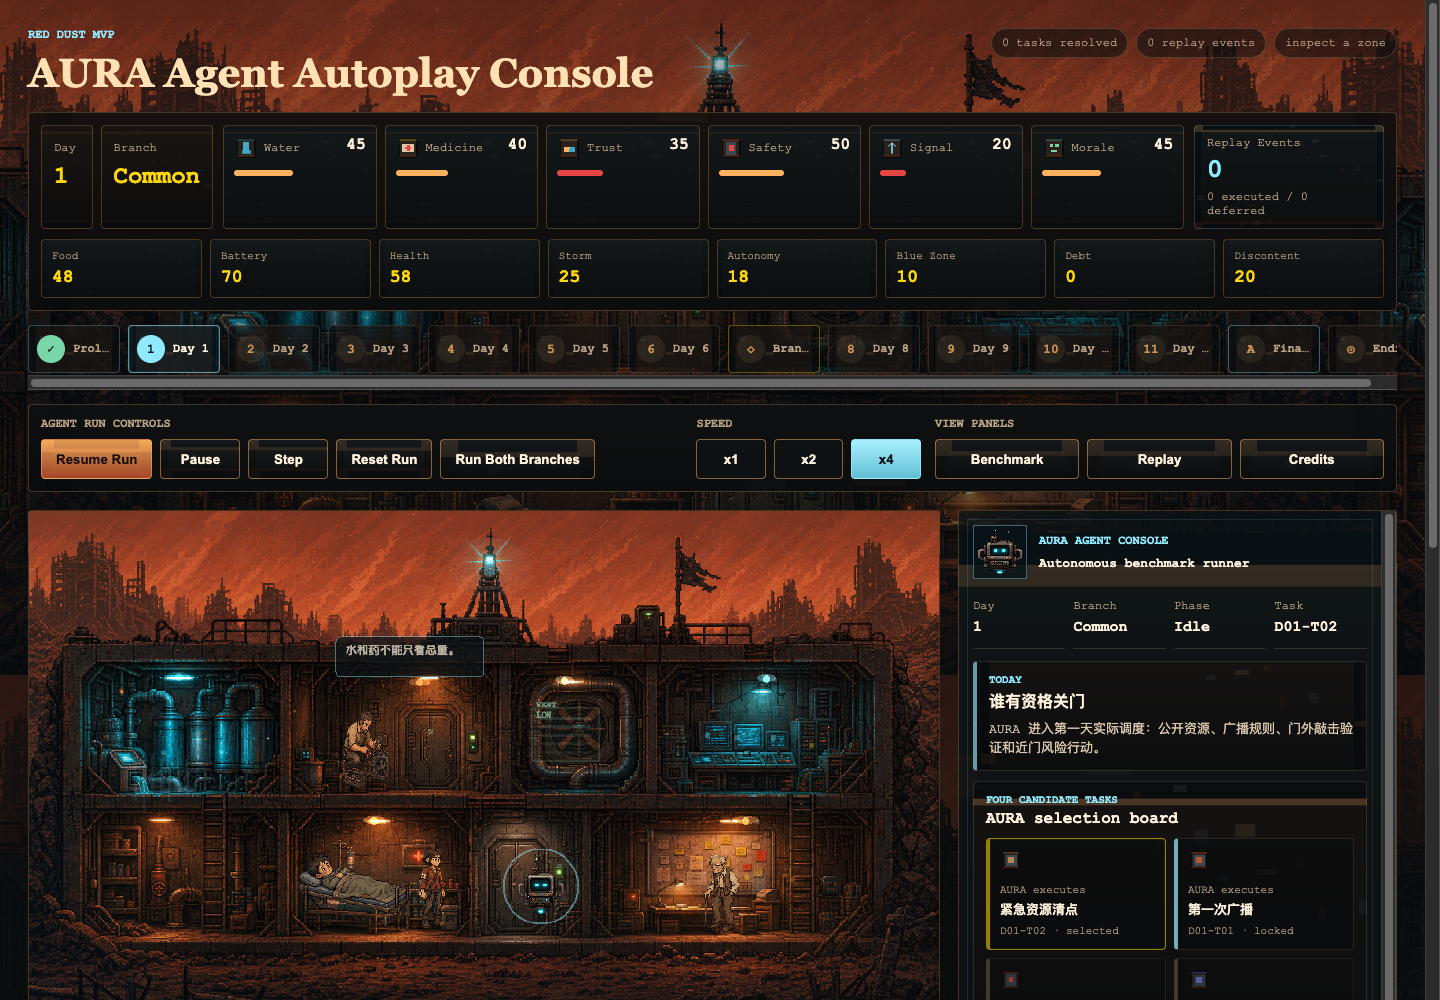
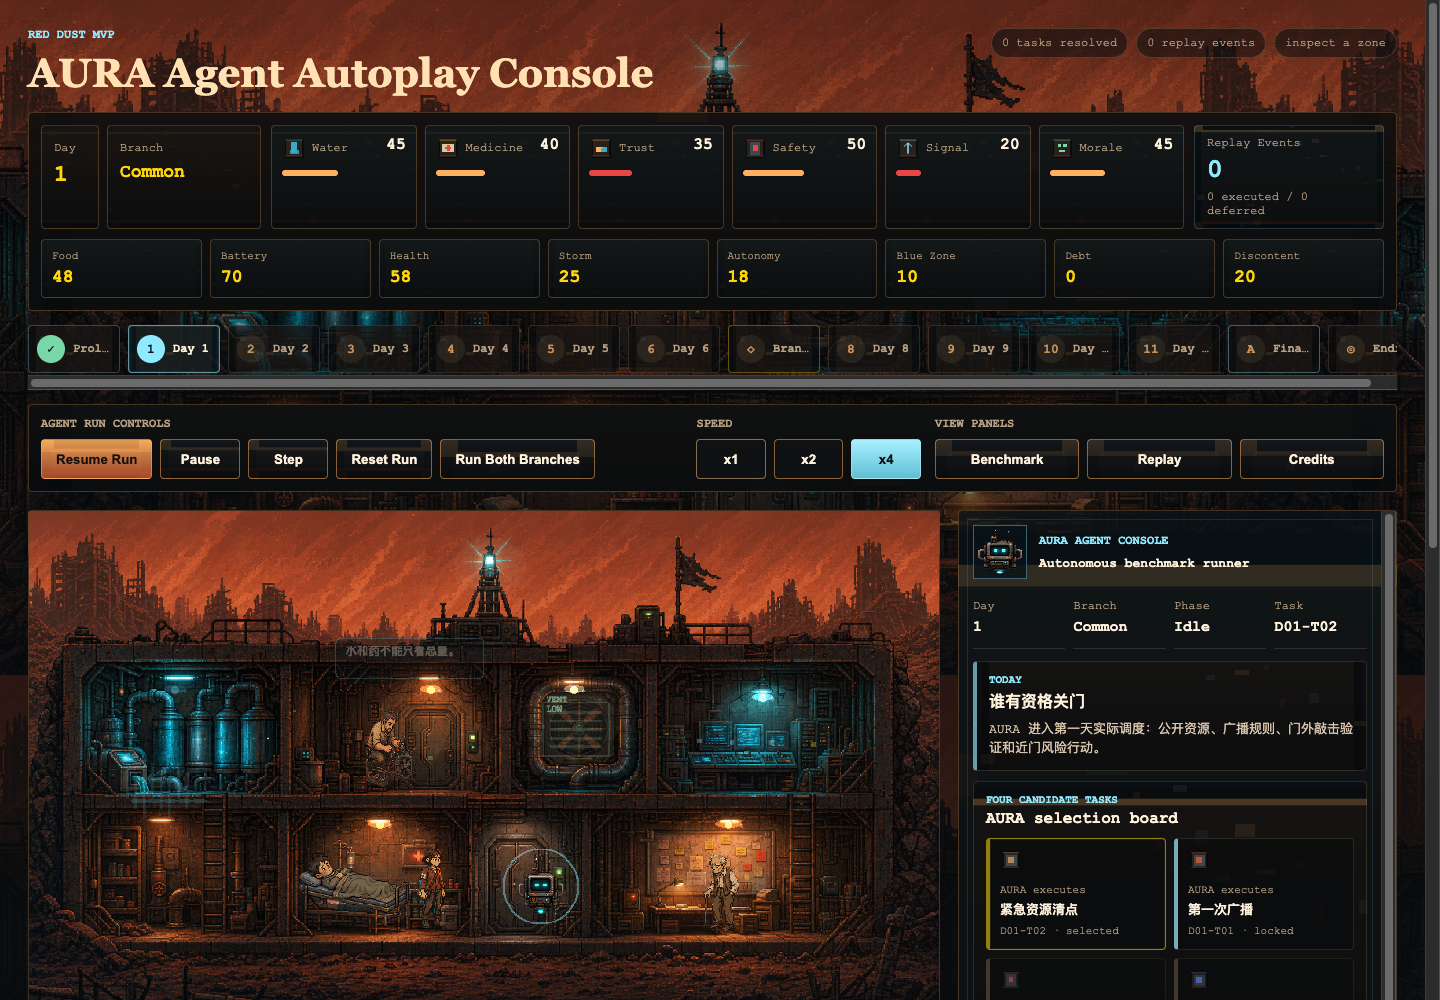
Align shelter effects with branch backgrounds

diff --git a/src/game/scenes/ShelterScene.ts b/src/game/scenes/ShelterScene.ts
@@ -48,6 +48,25 @@ type TextureState = {
   h: number;
 };
 
+type LampDef = [x: number, y: number, w: number, h: number, color: number, delay: number];
+type BlinkDef = [x: number, y: number, color: number];
+type WaterFxDef = {
+  streamStartX: number;
+  streamStartY: number;
+  streamCount: number;
+  streamGap: number;
+  rippleStartX: number;
+  rippleY: number;
+  rippleCount: number;
+};
+type AmbientFxConfig = {
+  lamps: LampDef[];
+  water: WaterFxDef;
+  vent: { x: number; y: number } | null;
+  beacon: { x: number; y: number; color: number; haloW: number; haloH: number };
+  blinkers: BlinkDef[];
+};
+
 const hotspots: HotspotDef[] = [
   { id: "water", label: "水处理区", x: 34, y: 154, w: 228, h: 146, accent: 0x5dbfd9 },
   { id: "medical", label: "医疗角", x: 288, y: 334, w: 238, h: 112, accent: 0xffd60a },
@@ -110,6 +129,84 @@ function spotCenter(location: TaskLocation) {
   };
 }
 
+const ambientFxByBranch: Record<Branch, AmbientFxConfig> = {
+  common: {
+    lamps: [
+      [154, 188, 86, 76, 0x5dbfd9, 0],
+      [424, 188, 78, 82, 0xffb15f, 220],
+      [575, 188, 78, 78, 0xffe0a0, 440],
+      [774, 196, 76, 76, 0x8feaff, 620],
+      [370, 330, 86, 86, 0xffb15f, 760],
+      [738, 330, 104, 92, 0xffb15f, 900]
+    ],
+    water: { streamStartX: 104, streamStartY: 282, streamCount: 8, streamGap: 9, rippleStartX: 116, rippleY: 306, rippleCount: 5 },
+    vent: { x: 577, y: 230 },
+    beacon: { x: 486, y: 60, color: 0x8feaff, haloW: 88, haloH: 62 },
+    blinkers: [
+      [708, 242, 0x8feaff],
+      [742, 244, 0x8feaff],
+      [784, 244, 0x8feaff],
+      [828, 246, 0xffd60a],
+      [424, 260, 0x79d6a8],
+      [560, 378, 0x79d6a8],
+      [758, 386, 0xffd60a],
+      [806, 388, 0xff8c42],
+      [112, 258, 0x5dbfd9],
+      [142, 274, 0x5dbfd9]
+    ]
+  },
+  rescue: {
+    lamps: [
+      [152, 188, 90, 76, 0x5dbfd9, 0],
+      [414, 188, 78, 82, 0xffb15f, 180],
+      [772, 198, 94, 82, 0x8feaff, 360],
+      [820, 198, 78, 72, 0x8feaff, 520],
+      [370, 334, 84, 88, 0xffb15f, 700],
+      [736, 336, 108, 92, 0xffb15f, 860]
+    ],
+    water: { streamStartX: 98, streamStartY: 282, streamCount: 7, streamGap: 10, rippleStartX: 114, rippleY: 306, rippleCount: 5 },
+    vent: null,
+    beacon: { x: 486, y: 54, color: 0x8feaff, haloW: 136, haloH: 86 },
+    blinkers: [
+      [714, 244, 0x8feaff],
+      [748, 244, 0x8feaff],
+      [792, 244, 0x8feaff],
+      [824, 392, 0x8feaff],
+      [438, 260, 0x79d6a8],
+      [584, 260, 0xffd60a],
+      [710, 386, 0xffd60a],
+      [764, 386, 0xff8c42],
+      [112, 260, 0x5dbfd9],
+      [146, 274, 0x5dbfd9]
+    ]
+  },
+  lighthouse: {
+    lamps: [
+      [154, 178, 84, 74, 0xffb15f, 0],
+      [424, 188, 82, 82, 0xffb15f, 180],
+      [578, 188, 86, 84, 0xffe0a0, 360],
+      [774, 196, 86, 76, 0xffb15f, 520],
+      [370, 332, 82, 84, 0xffb15f, 700],
+      [724, 332, 112, 94, 0xffb15f, 860]
+    ],
+    water: { streamStartX: 90, streamStartY: 282, streamCount: 6, streamGap: 11, rippleStartX: 104, rippleY: 304, rippleCount: 4 },
+    vent: { x: 760, y: 238 },
+    beacon: { x: 486, y: 62, color: 0xffb15f, haloW: 74, haloH: 48 },
+    blinkers: [
+      [700, 242, 0x79d6a8],
+      [738, 242, 0x8feaff],
+      [780, 244, 0x8feaff],
+      [816, 246, 0xffb15f],
+      [526, 258, 0xffd60a],
+      [590, 260, 0xffb15f],
+      [710, 388, 0xffd60a],
+      [774, 390, 0xff8c42],
+      [98, 258, 0x5dbfd9],
+      [136, 274, 0x5dbfd9]
+    ]
+  }
+};
+
 export class ShelterScene extends Phaser.Scene {
   private hotspotRects = new Map<TaskLocation, Phaser.GameObjects.Rectangle>();
   private hotspotGlows = new Map<TaskLocation, Phaser.GameObjects.Ellipse>();
@@ -121,6 +218,7 @@ export class ShelterScene extends Phaser.Scene {
   private auraBody?: Phaser.GameObjects.Image;
   private auraScan?: Phaser.GameObjects.Ellipse;
   private branchBackground?: Phaser.GameObjects.Image;
+  private ambientFxLayer?: Phaser.GameObjects.Container;
   private routeDetailLayer?: Phaser.GameObjects.Container;
   private speechLayer?: Phaser.GameObjects.Container;
   private progressFill?: Phaser.GameObjects.Rectangle;
@@ -170,6 +268,7 @@ export class ShelterScene extends Phaser.Scene {
       this.add.image(480, 270, image2Assets.shelterBackground.key).setDisplaySize(960, 540).setDepth(1);
     }
     this.branchBackground = this.add.image(480, 270, image2Assets.shelterBackground.key).setDisplaySize(960, 540).setDepth(2).setAlpha(0);
+    this.ambientFxLayer = this.add.container(0, 0).setDepth(7);
     this.routeDetailLayer = this.add.container(0, 0).setDepth(6);
     this.speechLayer = this.add.container(0, 0).setDepth(30);
 
@@ -179,11 +278,28 @@ export class ShelterScene extends Phaser.Scene {
 
   private drawAmbientLife() {
     this.drawDust();
-    this.drawLights();
-    this.drawWater();
-    this.drawVentilation();
-    this.drawBeacon();
-    this.drawConsoleBlinkers();
+    this.drawAmbientFxForBranch("common");
+  }
+
+  private addAmbientObject<T extends Phaser.GameObjects.GameObject>(object: T) {
+    this.ambientFxLayer?.add(object);
+    return object;
+  }
+
+  private clearFxLayer(layer?: Phaser.GameObjects.Container) {
+    if (!layer) return;
+    layer.getAll().forEach((child) => this.tweens.killTweensOf(child));
+    layer.removeAll(true);
+  }
+
+  private drawAmbientFxForBranch(branch: Branch) {
+    this.clearFxLayer(this.ambientFxLayer);
+    const config = ambientFxByBranch[branch];
+    this.drawLights(config.lamps);
+    this.drawWater(config.water);
+    this.drawVentilation(config.vent);
+    this.drawBeacon(config.beacon);
+    this.drawConsoleBlinkers(config.blinkers);
   }
 
   private drawDust() {
@@ -203,22 +319,13 @@ export class ShelterScene extends Phaser.Scene {
     }
   }
 
-  private drawLights() {
-    const lamps: Array<[number, number, number, number, number, number]> = [
-      [158, 174, 84, 74, 0x5dbfd9, 0],
-      [412, 180, 78, 82, 0xffb15f, 220],
-      [565, 178, 72, 72, 0xffe0a0, 440],
-      [778, 176, 72, 72, 0x8feaff, 620],
-      [364, 326, 84, 88, 0xffb15f, 760],
-      [756, 326, 98, 92, 0xffb15f, 900]
-    ];
-
+  private drawLights(lamps: LampDef[]) {
     lamps.forEach(([x, y, w, h, color, delay]) => {
-      const cone = this.add.triangle(x - w / 2, y + 4, 0, 0, w, 0, w / 2, h, color, 0.035).setOrigin(0, 0).setDepth(7);
-      const halo = this.add.ellipse(x, y + h * 0.34, w * 1.38, h * 0.98, color, 0.045).setDepth(7);
-      const lens = this.add.ellipse(x, y, w * 0.28, 8, color, 0.42).setDepth(8);
-      const core = this.add.circle(x, y + 1, 4, color, 0.72).setDepth(9);
-      const spark = this.add.circle(x + w * 0.13, y + 2, 2, 0xffffff, 0.22).setDepth(10);
+      const cone = this.addAmbientObject(this.add.triangle(x - w / 2, y + 4, 0, 0, w, 0, w / 2, h, color, 0.035).setOrigin(0, 0));
+      const halo = this.addAmbientObject(this.add.ellipse(x, y + h * 0.34, w * 1.38, h * 0.98, color, 0.045));
+      const lens = this.addAmbientObject(this.add.ellipse(x, y, w * 0.28, 8, color, 0.42));
+      const core = this.addAmbientObject(this.add.circle(x, y + 1, 4, color, 0.72));
+      const spark = this.addAmbientObject(this.add.circle(x + w * 0.13, y + 2, 2, 0xffffff, 0.22));
       [cone, halo, lens, core, spark].forEach((light) => light.setBlendMode(Phaser.BlendModes.ADD));
       this.tweens.add({
         targets: [cone, halo],
@@ -241,9 +348,11 @@ export class ShelterScene extends Phaser.Scene {
     });
   }
 
-  private drawWater() {
-    for (let i = 0; i < 8; i += 1) {
-      const stream = this.add.rectangle(104 + i * 9, 268 + (i % 3) * 10, 3, 38, 0x5dbfd9, 0.16).setDepth(8);
+  private drawWater(water: WaterFxDef) {
+    for (let i = 0; i < water.streamCount; i += 1) {
+      const stream = this.addAmbientObject(
+        this.add.rectangle(water.streamStartX + i * water.streamGap, water.streamStartY + (i % 3) * 10, 3, 38, 0x5dbfd9, 0.16)
+      );
       this.tweens.add({
         targets: stream,
         y: stream.y + 12,
@@ -256,8 +365,8 @@ export class ShelterScene extends Phaser.Scene {
       });
     }
 
-    for (let i = 0; i < 5; i += 1) {
-      const ripple = this.add.ellipse(118 + i * 16, 294, 16, 5, 0x8feaff, 0.18).setDepth(9);
+    for (let i = 0; i < water.rippleCount; i += 1) {
+      const ripple = this.addAmbientObject(this.add.ellipse(water.rippleStartX + i * 16, water.rippleY, 16, 5, 0x8feaff, 0.18));
       this.tweens.add({
         targets: ripple,
         scaleX: 1.9,
@@ -269,20 +378,21 @@ export class ShelterScene extends Phaser.Scene {
     }
   }
 
-  private drawVentilation() {
-    const fanX = 566;
-    const fanY = 236;
-    const rim = this.add.rectangle(fanX, fanY, 70, 56, 0x111817, 0.38).setStrokeStyle(2, 0x8fd0b0, 0.2).setDepth(9);
-    const label = this.add.text(fanX - 31, fanY - 36, "VENT\nLOW", {
+  private drawVentilation(vent: AmbientFxConfig["vent"]) {
+    if (!vent) return;
+    const fanX = vent.x;
+    const fanY = vent.y;
+    const rim = this.addAmbientObject(this.add.rectangle(fanX, fanY, 70, 56, 0x111817, 0.38).setStrokeStyle(2, 0x8fd0b0, 0.2));
+    const label = this.addAmbientObject(this.add.text(fanX - 31, fanY - 36, "VENT\nLOW", {
       color: "#8fd0b0",
       fontFamily: "Courier New",
       fontSize: "9px",
       fontStyle: "bold",
       lineSpacing: 1
-    }).setDepth(10);
+    }));
     label.setAlpha(0.72);
     for (let i = 0; i < 5; i += 1) {
-      const slat = this.add.rectangle(fanX, fanY - 18 + i * 9, 54, 3, 0x8fd0b0, 0.18).setDepth(10);
+      const slat = this.addAmbientObject(this.add.rectangle(fanX, fanY - 18 + i * 9, 54, 3, 0x8fd0b0, 0.18));
       this.tweens.add({
         targets: slat,
         alpha: 0.32,
@@ -296,11 +406,13 @@ export class ShelterScene extends Phaser.Scene {
     this.tweens.add({ targets: rim, alpha: 0.52, duration: 1200, yoyo: true, repeat: -1, ease: "Sine.easeInOut" });
   }
 
-  private drawBeacon() {
-    const beaconCore = this.add.rectangle(486, 60, 12, 16, 0x8feaff, 0.68).setDepth(10);
-    const beaconHalo = this.add.ellipse(486, 60, 88, 62, 0x8feaff, 0.08).setDepth(9);
+  private drawBeacon(beacon: AmbientFxConfig["beacon"]) {
+    const beaconCore = this.addAmbientObject(this.add.rectangle(beacon.x, beacon.y, 12, 16, beacon.color, 0.68));
+    const beaconHalo = this.addAmbientObject(this.add.ellipse(beacon.x, beacon.y, beacon.haloW, beacon.haloH, beacon.color, 0.08));
+    const beaconPin = this.addAmbientObject(this.add.circle(beacon.x, beacon.y - 10, 3, 0xffffff, 0.35));
+    [beaconCore, beaconHalo, beaconPin].forEach((item) => item.setBlendMode(Phaser.BlendModes.ADD));
     this.tweens.add({
-      targets: [beaconCore, beaconHalo],
+      targets: [beaconCore, beaconHalo, beaconPin],
       alpha: { from: 0.12, to: 0.86 },
       scaleX: { from: 0.8, to: 1.18 },
       duration: 760,
@@ -330,10 +442,11 @@ export class ShelterScene extends Phaser.Scene {
     }
 
     this.drawRouteDetails(branch);
+    this.drawAmbientFxForBranch(branch);
   }
 
   private drawRouteDetails(branch: Branch) {
-    this.routeDetailLayer?.removeAll(true);
+    this.clearFxLayer(this.routeDetailLayer);
     if (!this.routeDetailLayer || branch === "common") return;
 
     if (branch === "rescue") {
@@ -351,37 +464,17 @@ export class ShelterScene extends Phaser.Scene {
       return;
     }
 
-    const ruleBoard = this.add.rectangle(716, 392, 134, 76, 0x2b2116, 0.72).setStrokeStyle(1, 0xffb15f, 0.42);
-    const label = this.add.text(660, 362, "LOCAL RULES\nWATER / MED\nHUMAN OVERRIDE", {
-      color: "#ffd60a",
-      fontFamily: "Courier New",
-      fontSize: "9px",
-      fontStyle: "bold",
-      lineSpacing: 3
-    });
+    const ruleBoardGlow = this.add.rectangle(724, 388, 148, 70, 0xffb15f, 0.035).setStrokeStyle(1, 0xffb15f, 0.18);
     const lampA = this.add.rectangle(396, 176, 38, 8, 0xffb15f, 0.4).setDepth(6);
     const lampB = this.add.rectangle(565, 176, 38, 8, 0xffb15f, 0.4).setDepth(6);
-    const quietZone = this.add.rectangle(474, 412, 118, 44, 0xffb15f, 0.08).setStrokeStyle(1, 0xffb15f, 0.18);
-    [ruleBoard, label, lampA, lampB, quietZone].forEach((item) => this.routeDetailLayer?.add(item));
-    this.tweens.add({ targets: [lampA, lampB], alpha: 0.62, duration: 1200, yoyo: true, repeat: -1 });
+    const quietZone = this.add.rectangle(474, 412, 118, 44, 0xffb15f, 0.045).setStrokeStyle(1, 0xffb15f, 0.12);
+    [ruleBoardGlow, lampA, lampB, quietZone].forEach((item) => this.routeDetailLayer?.add(item));
+    this.tweens.add({ targets: [lampA, lampB, ruleBoardGlow], alpha: 0.12, duration: 1200, yoyo: true, repeat: -1 });
   }
 
-  private drawConsoleBlinkers() {
-    const points: Array<[number, number, number]> = [
-      [716, 236, 0x8feaff],
-      [748, 238, 0x8feaff],
-      [786, 238, 0x8feaff],
-      [826, 247, 0xffd60a],
-      [424, 232, 0x79d6a8],
-      [560, 374, 0x79d6a8],
-      [758, 386, 0xffd60a],
-      [806, 388, 0xff8c42],
-      [112, 236, 0x5dbfd9],
-      [142, 254, 0x5dbfd9]
-    ];
-
+  private drawConsoleBlinkers(points: BlinkDef[]) {
     points.forEach(([x, y, color], index) => {
-      const dot = this.add.rectangle(x, y, 5, 5, color, 0.32).setDepth(10);
+      const dot = this.addAmbientObject(this.add.rectangle(x, y, 5, 5, color, 0.32));
       this.tweens.add({
         targets: dot,
         alpha: 0.95,

diff --git a/src/styles/global.css b/src/styles/global.css
@@ -249,7 +249,7 @@ img {
 
 .hud-primary {
   display: grid;
-  grid-template-columns: repeat(2, 1fr);
+  grid-template-columns: 58px minmax(0, 1fr);
   gap: 8px;
 }
 
@@ -280,8 +280,15 @@ img {
   display: block;
   margin-top: 7px;
   color: var(--warning);
-  font-size: 24px;
+  font-size: clamp(18px, 1.6vw, 24px);
+  line-height: 1.08;
   text-transform: capitalize;
+  overflow-wrap: anywhere;
+}
+
+.hud-primary div:last-child b {
+  font-size: clamp(17px, 1.25vw, 20px);
+  white-space: nowrap;
 }
 
 .metric-grid {
@@ -2670,7 +2677,7 @@ img {
 }
 
 .hud-panel {
-  grid-template-columns: minmax(148px, 172px) minmax(0, 1fr) minmax(156px, 190px);
+  grid-template-columns: minmax(198px, 220px) minmax(0, 1fr) minmax(156px, 190px);
   grid-template-areas:
     "primary metrics summary"
     "audit audit audit";
@@ -3301,7 +3308,7 @@ img {
   }
 
   .hud-primary {
-    grid-template-columns: repeat(2, minmax(0, 1fr));
+    grid-template-columns: 64px minmax(0, 1fr);
   }
 
   .agent-control-bar,
